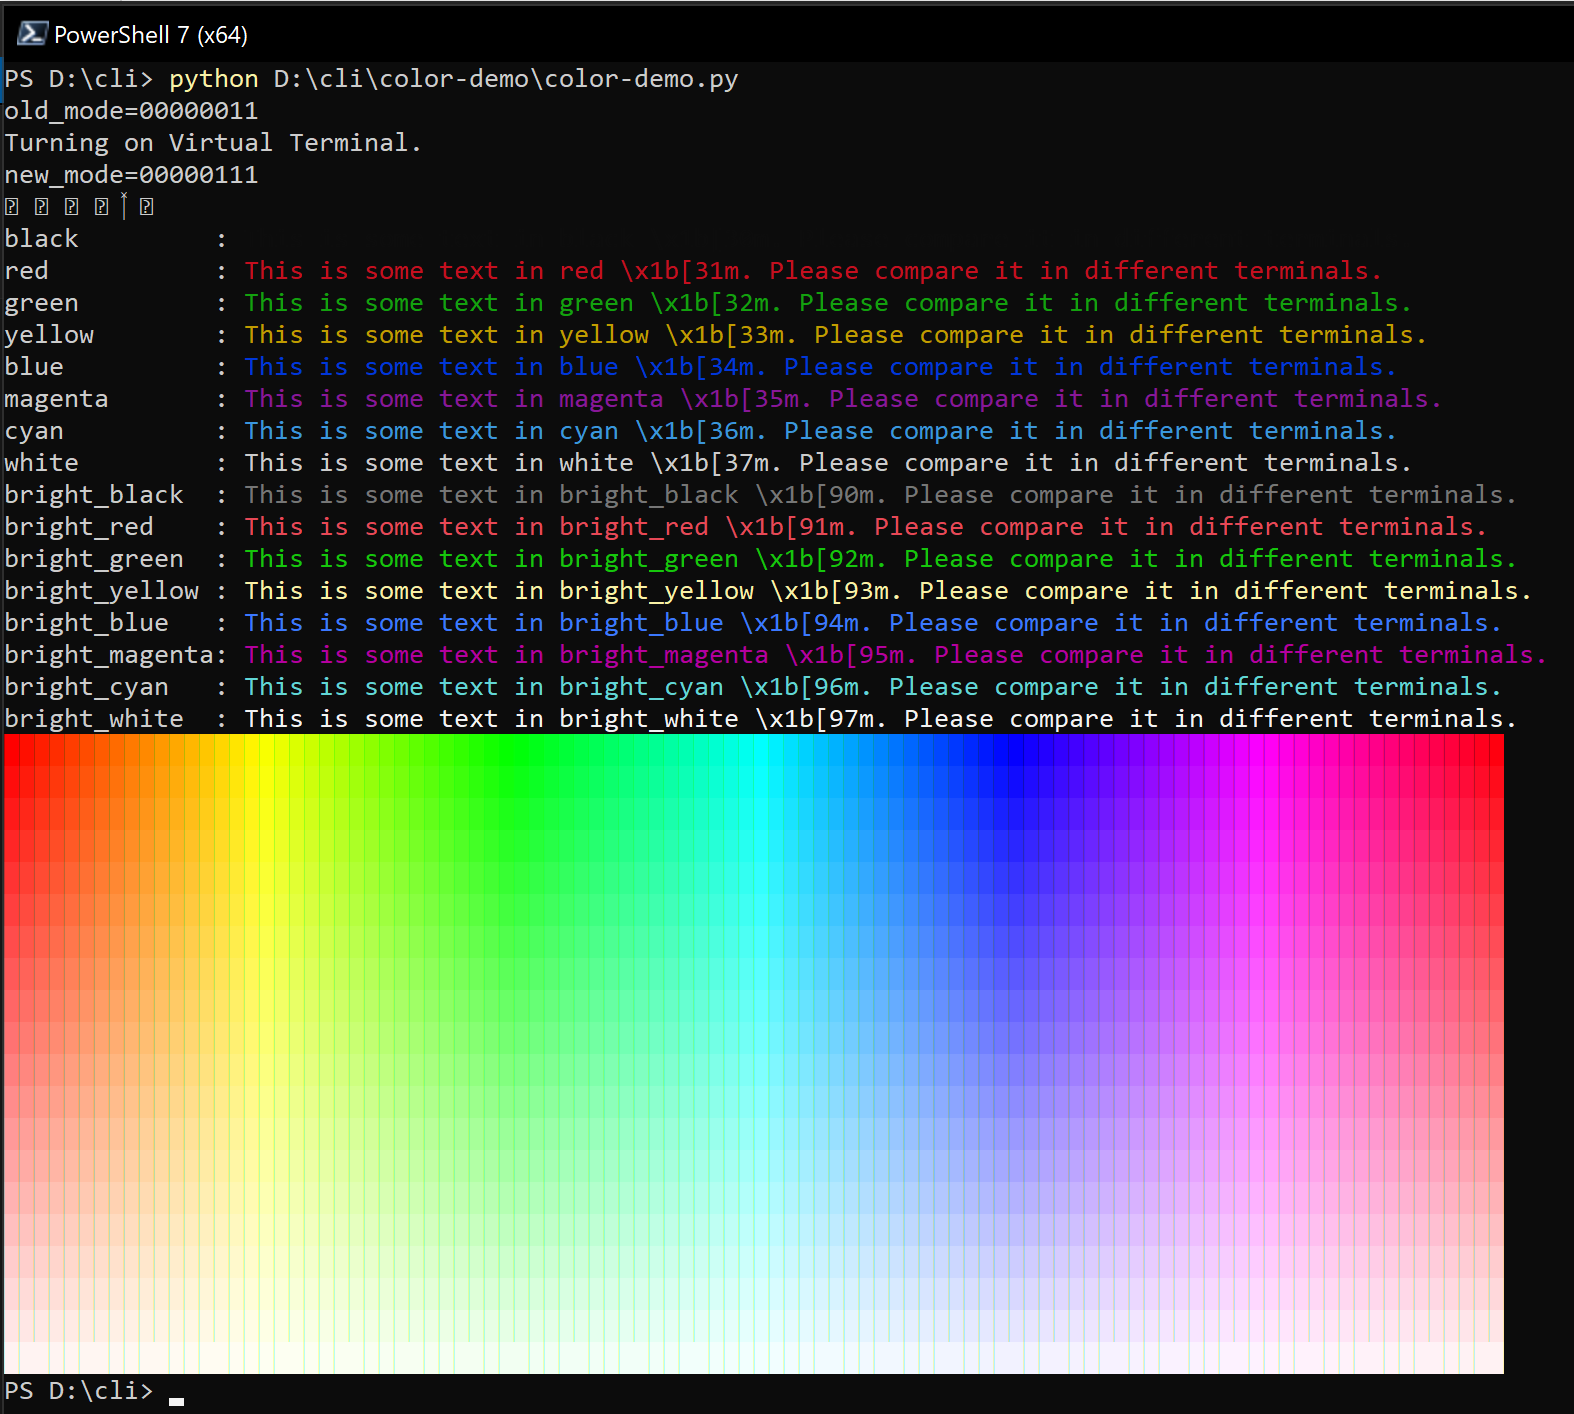
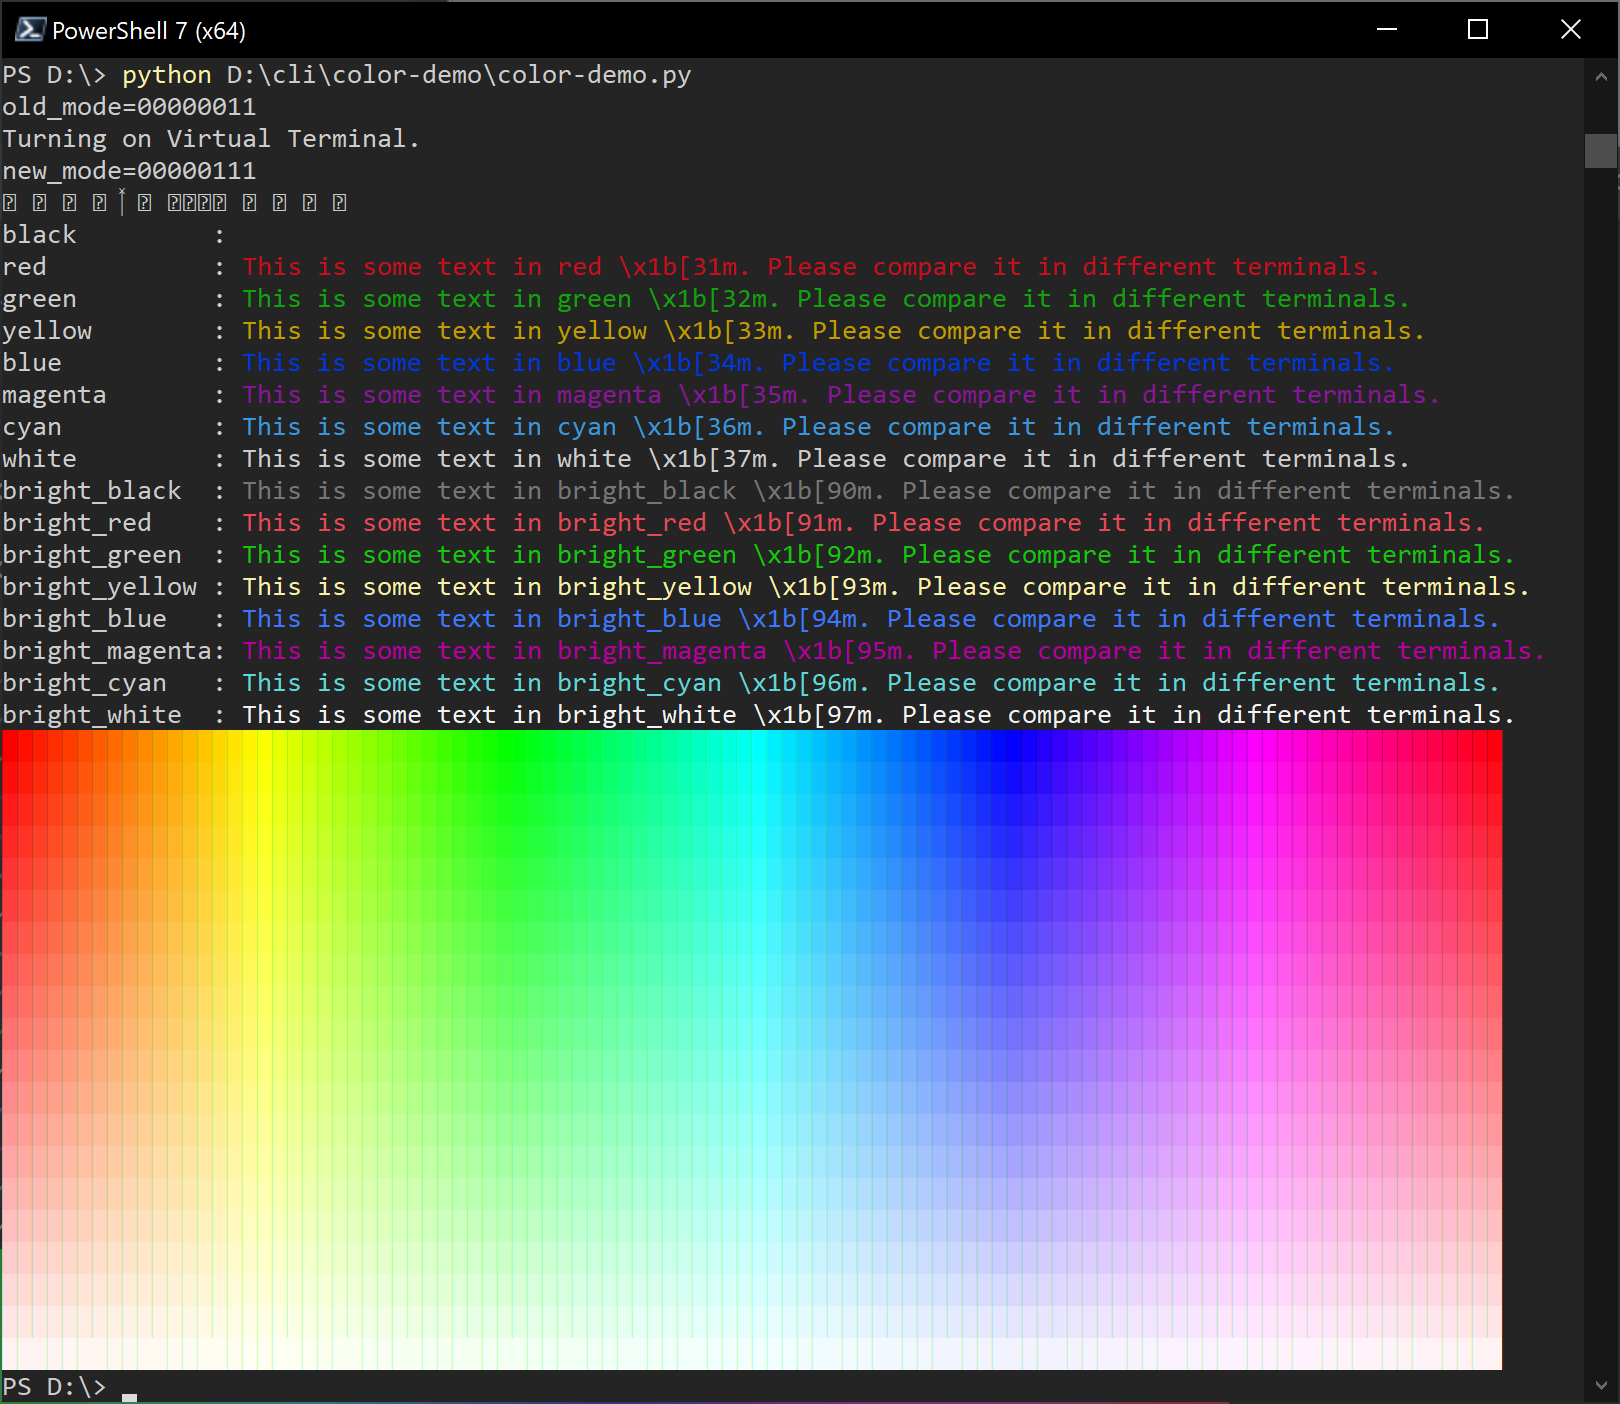
Add unicode test chars

Changed region(s): [[0.0, 0.0, 1.0, 1.0]]

diff --git a/color-demo.py b/color-demo.py
@@ -87,7 +87,10 @@ def main():
     enable_vt_mode()
 
     # Print some emoji
-    print("🎃👻🦉🧙🔮")
+    # ✓: https://www.compart.com/en/unicode/U+2713
+    # ⦿: https://www.compart.com/en/unicode/U+29BF
+    # ⦾: https://www.compart.com/en/unicode/U+29BE
+    print("🎃👻🦉🧙🔮✓⦿⦾测试テスト")
 
     # Print text in the basic 16 colors
     for color in COLORS:
